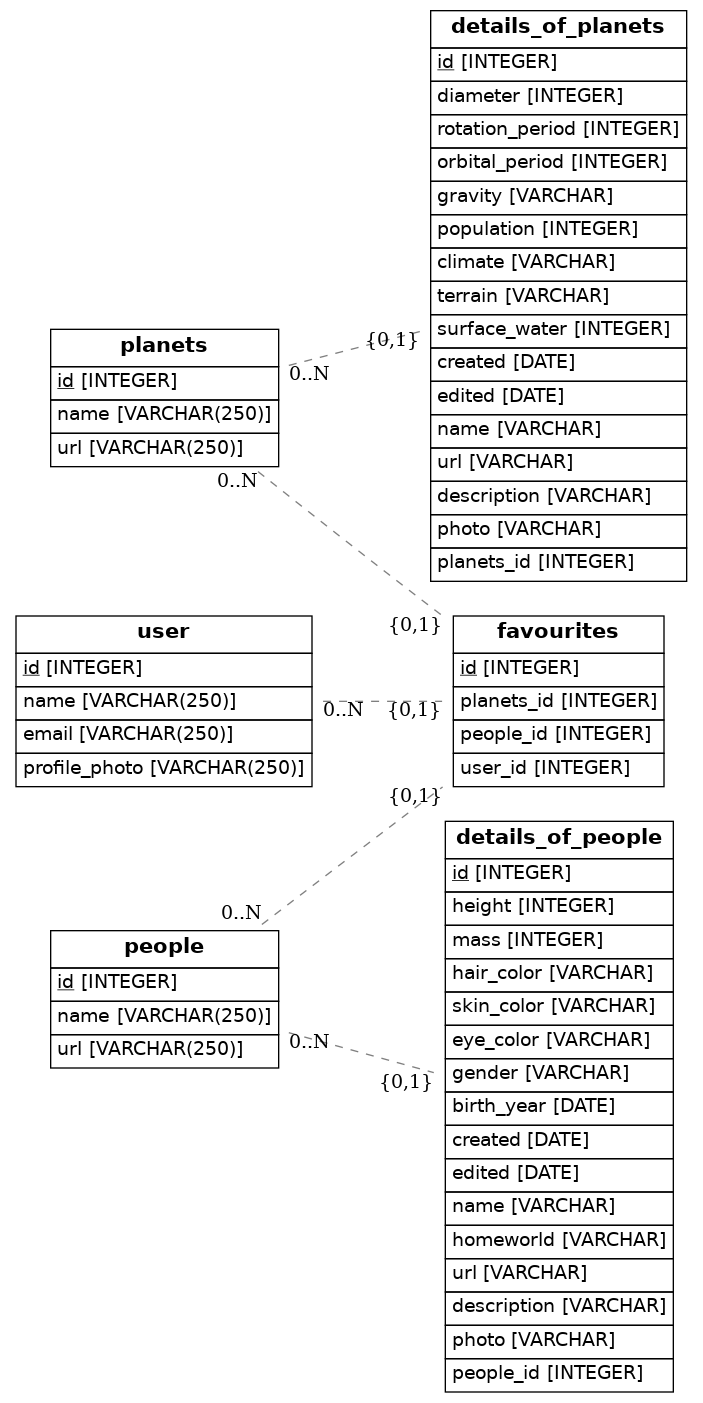
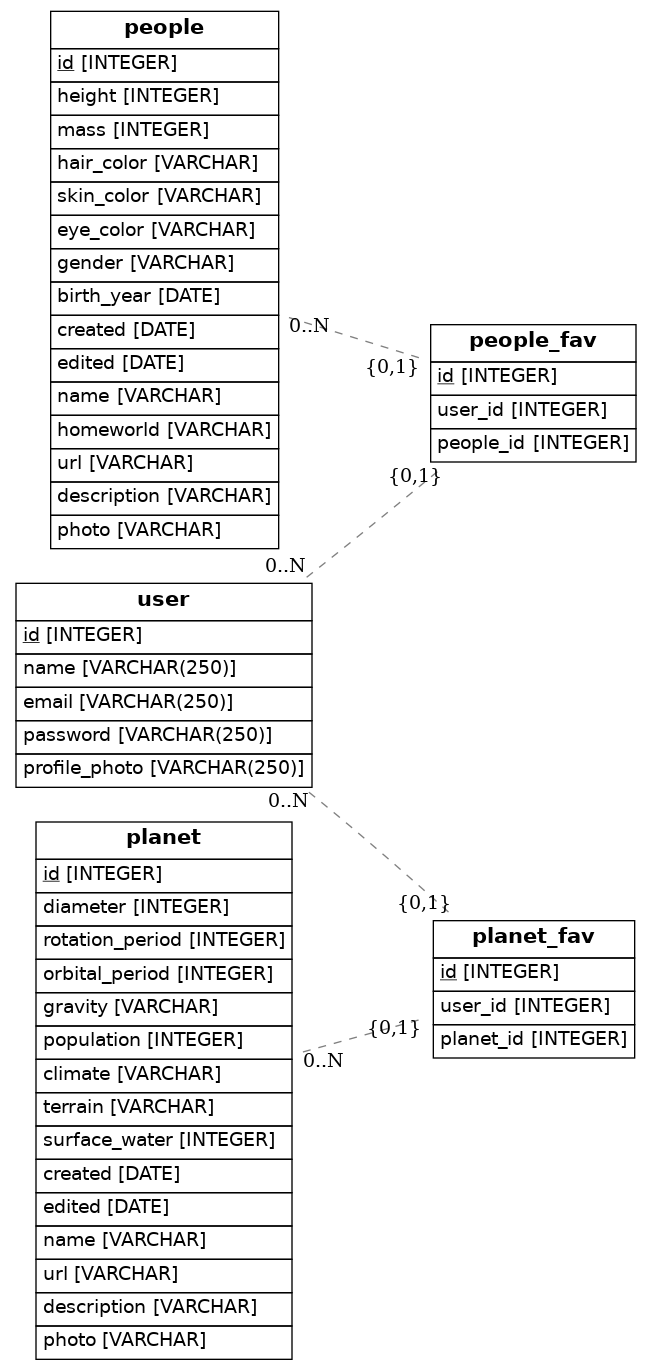
Corrección de proyecto

diff --git a/src/models.py b/src/models.py
@@ -8,40 +8,36 @@ from eralchemy import render_er
 
 Base = declarative_base()
 
-# class Person(Base):
-#     __tablename__ = 'person'
-#     # Here we define columns for the table person
-#     # Notice that each column is also a normal Python instance attribute.
-#     id = Column(Integer, primary_key=True)
-#     name = Column(String(250), nullable=False)
+class People_Fav(Base):
+    __tablename__ = 'people_fav'
+    
+    id = Column(Integer, primary_key=True)
+    user_id = Column(Integer, ForeignKey('user.id'), nullable=False)
+    people_id = Column(Integer, ForeignKey('people.id'), nullable=False)
 
-# class Address(Base):
-#     __tablename__ = 'address'
-#     # Here we define columns for the table address.
-#     # Notice that each column is also a normal Python instance attribute.
-#     id = Column(Integer, primary_key=True)
-#     street_name = Column(String(250))
-#     street_number = Column(String(250))
-#     post_code = Column(String(250), nullable=False)
-#     person_id = Column(Integer, ForeignKey('person.id'))
-#     person = relationship(Person)
+    def serialize(self):
+        return {
+            "id": self.id,
+            "user_id": self.user_id,
+            "people_id": self.people_id
+        }
+    
+class Planet_Fav(Base):
+    __tablename__ = 'planet_fav'
+    
+    id = Column(Integer, primary_key=True)
+    user_id = Column(Integer, ForeignKey('user.id'), nullable=False)
+    planet_id = Column(Integer, ForeignKey('planet.id'), nullable=False)
+
+    def serialize(self):
+        return {
+            "id": self.id,
+            "user_id": self.user_id,
+            "planet_id": self.planet_id
+        }
 
 class People(Base):
     __tablename__ = 'people'
-    
-    id = Column(Integer, primary_key=True)
-    name = Column(String(250))
-    url = Column(String(250))
-    
-class Planets(Base):
-    __tablename__ = 'planets'
-    
-    id = Column(Integer, primary_key=True)
-    name = Column(String(250))
-    url = Column(String(250))
-
-class Details_of_People(Base):
-    __tablename__ = 'details_of_people'
     
     id = Column(Integer, primary_key=True)
     height = Column(Integer)
@@ -59,12 +55,28 @@ class Details_of_People(Base):
     url = Column(String)
     description = Column(String)
     photo = Column(String)
-    people_id = Column(Integer, ForeignKey('people.id'))
-    people = relationship(People)
-    
+    liked_by_users = relationship("People_Fav", backref="people")
 
-class Details_of_Planets(Base):
-    __tablename__ = 'details_of_planets'
+    def serialize(self):
+        return {
+            "id": self.id,
+            "height": self.height,
+            "mass": self.mass,
+            "hair_color": self.hair_color,
+            "skin_color": self.skin_color,
+            "eye_color": self.eye_color,
+            "birth_year": self.birth_year,
+            "created": self.created,
+            "edited": self.edited,
+            "name": self.name,
+            "homeworld": self.homeworld,
+            "url": self.url,
+            "description": self.description,
+            "photo": self.photo
+        }
+
+class Planet(Base):
+    __tablename__ = 'planet'
     
     id = Column(Integer, primary_key=True)
     diameter = Column(Integer)
@@ -81,32 +93,46 @@ class Details_of_Planets(Base):
     url = Column(String)
     description = Column(String)
     photo = Column(String)
-    planets_id = Column(Integer, ForeignKey('planets.id'))
-    planets = relationship(Planets)
+    liked_by_users = relationship("Planet_Fav", backref="planet")
 
-class User_Info(Base):
+    def serialize(self):
+        return {
+            "id": self.id,
+            "diameter": self.diameter,
+            "rotation_period": self.rotation_period,
+            "orbital_period": self.orbital_period,
+            "gravity": self.gravity,
+            "population": self.population,
+            "climate": self.climate,
+            "terrain": self.terrain,
+            "surface_water": self.surface_water,
+            "created": self.created,
+            "edited": self.edited,
+            "name": self.name,
+            "url": self.url,
+            "description": self.description,
+            "photo": self.photo,
+        }
+
+class User(Base):
     __tablename__ = 'user'
     
     id = Column(Integer, primary_key=True)
     name = Column(String(250), nullable=False)
-    email = Column(String(250), nullable=False)
+    email = Column(String(250), nullable=False, unique=True)
+    password = Column(String(250), nullable=False)
     profile_photo = Column(String(250))
+    favourite_planets = relationship("Planet_Fav", backref="user")
+    favourite_people = relationship("People_Fav", backref="user")
 
-class Favourites(Base):
-    __tablename__ = 'favourites'
-    
-    id = Column(Integer, primary_key=True)
-    planets_id = Column(Integer, ForeignKey('planets.id'))
-    people_id = Column(Integer, ForeignKey('people.id'))
-    user_id = Column(Integer, ForeignKey('user.id'))
-    planets = relationship(Planets)
-    people = relationship(People)
-    user = relationship(User_Info)
+    def serialize(self):
+        return {
+            "id": self.id,
+            "name": self.name,
+            "email": self.email,
+            "profile_photo": self.profile_photo
+        }
 
-
-    
-    def to_dict(self):
-        return {}
 
 ## Draw from SQLAlchemy base
 render_er(Base, 'diagram.png')
